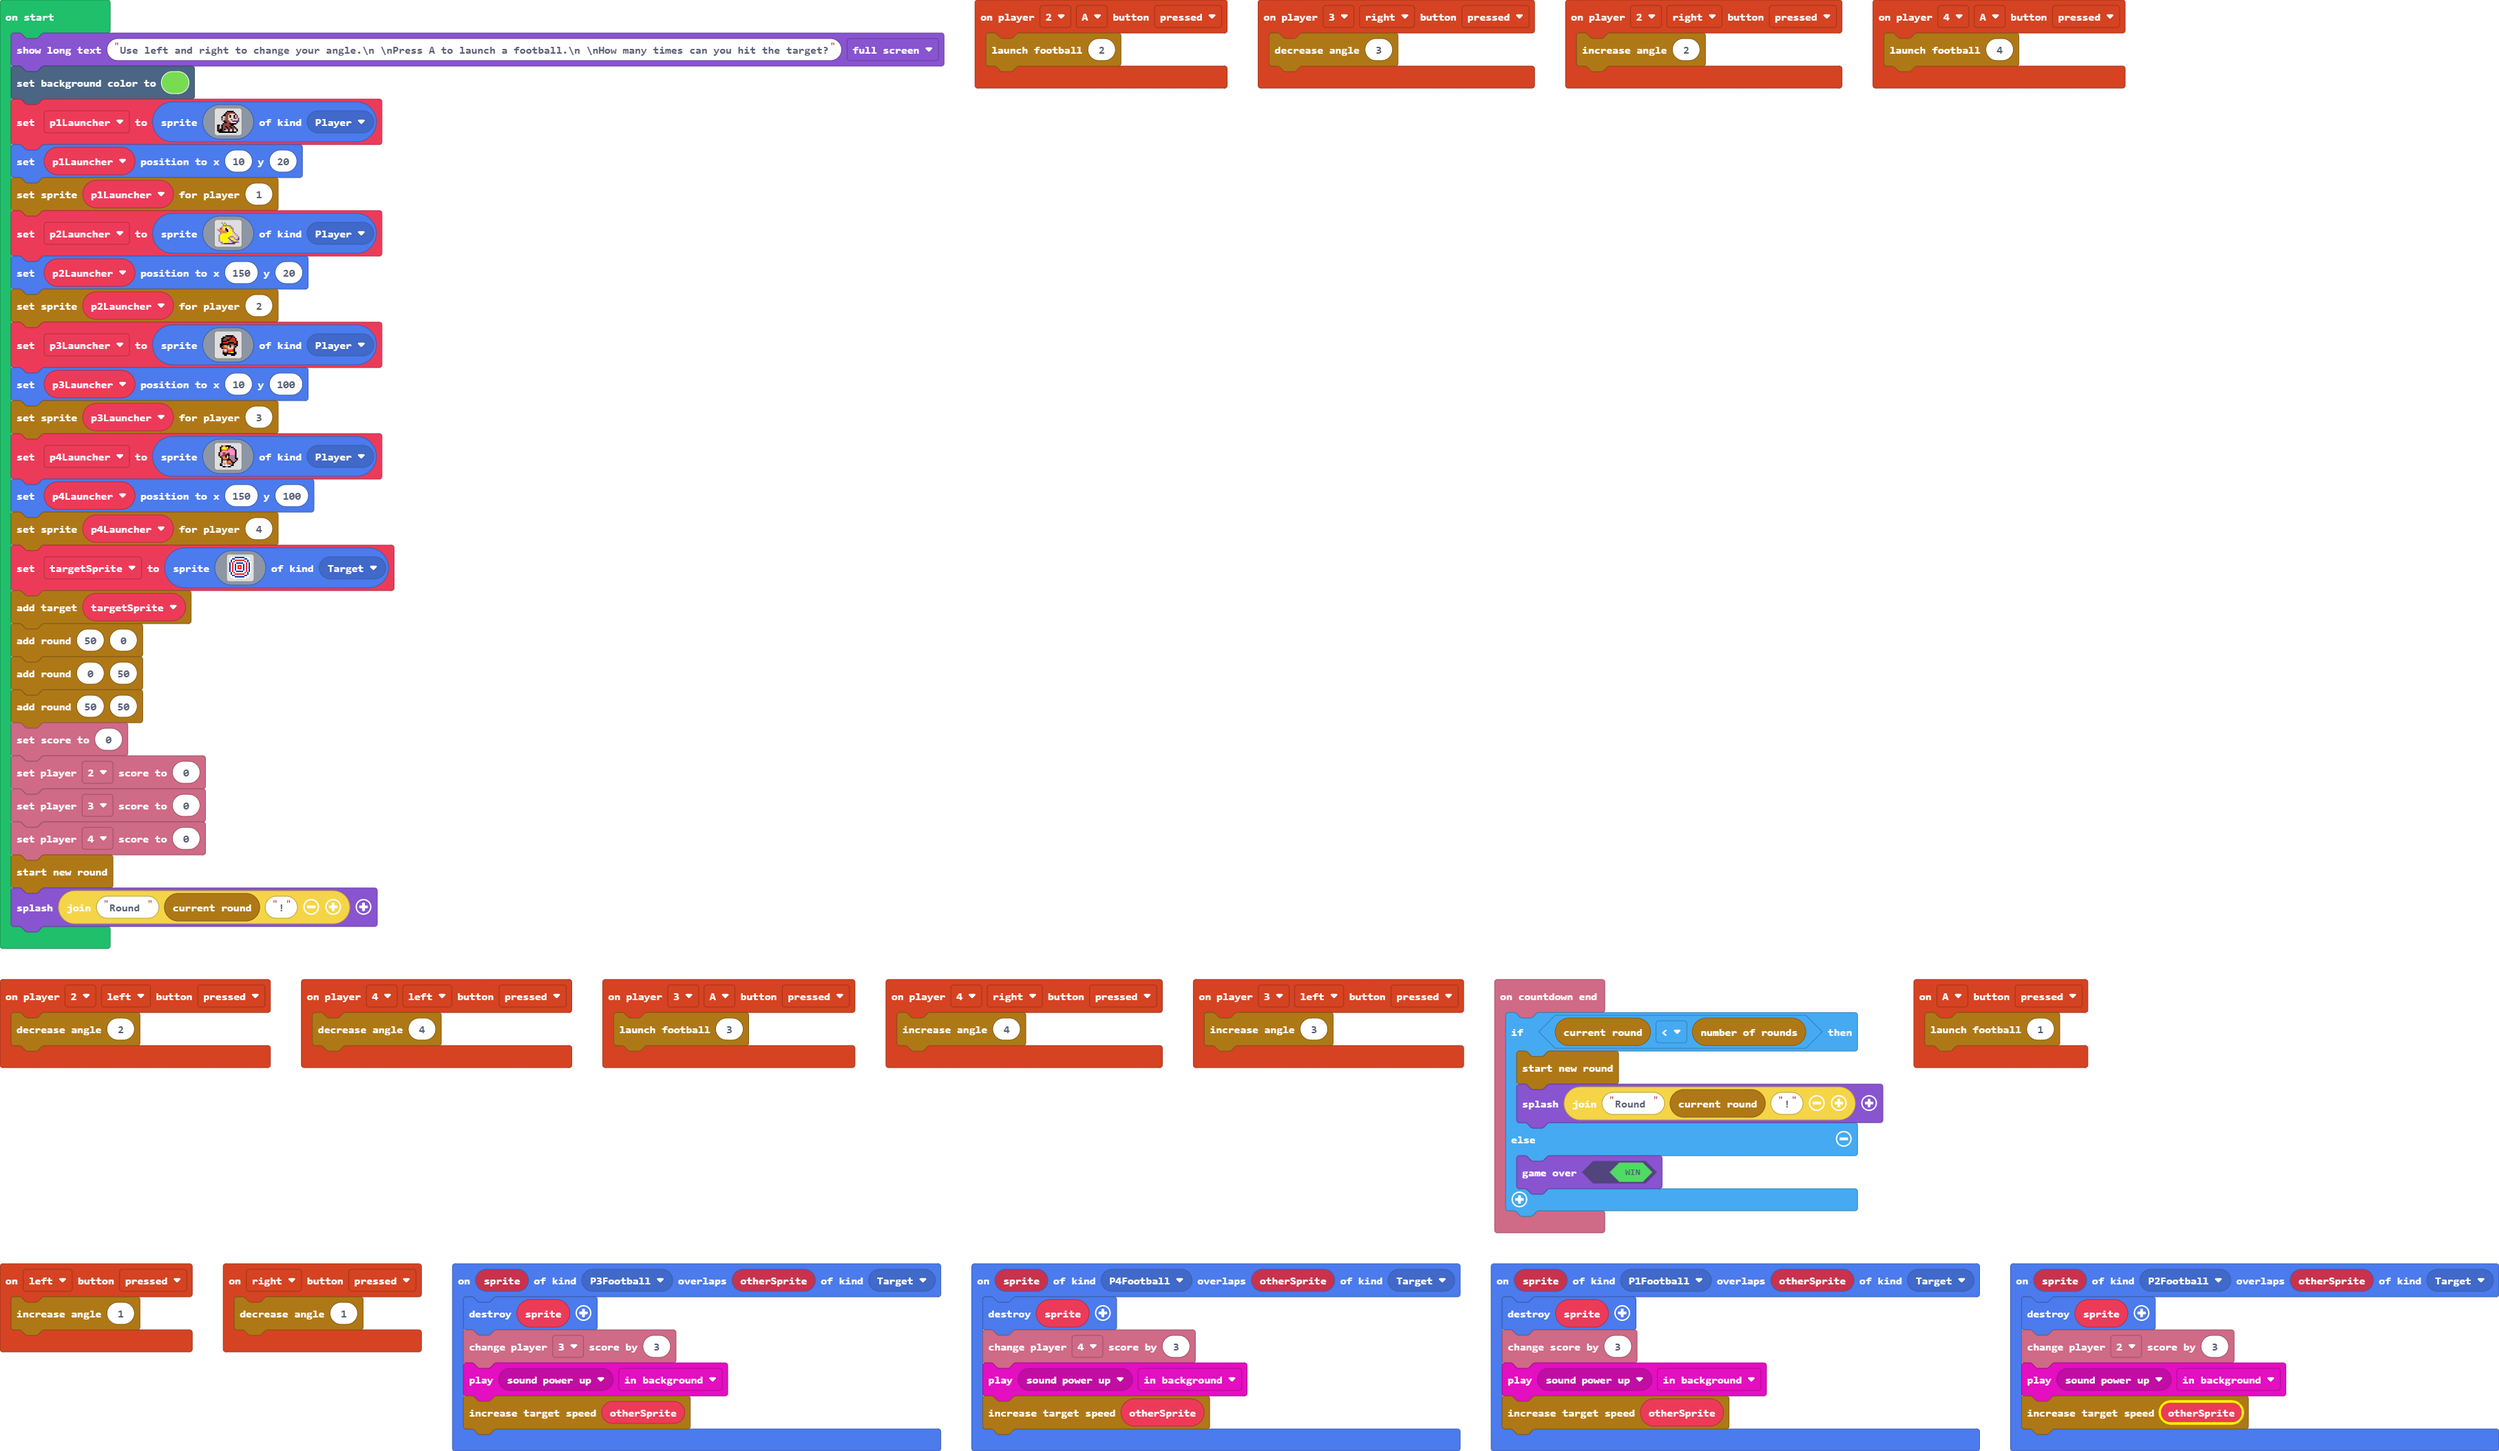
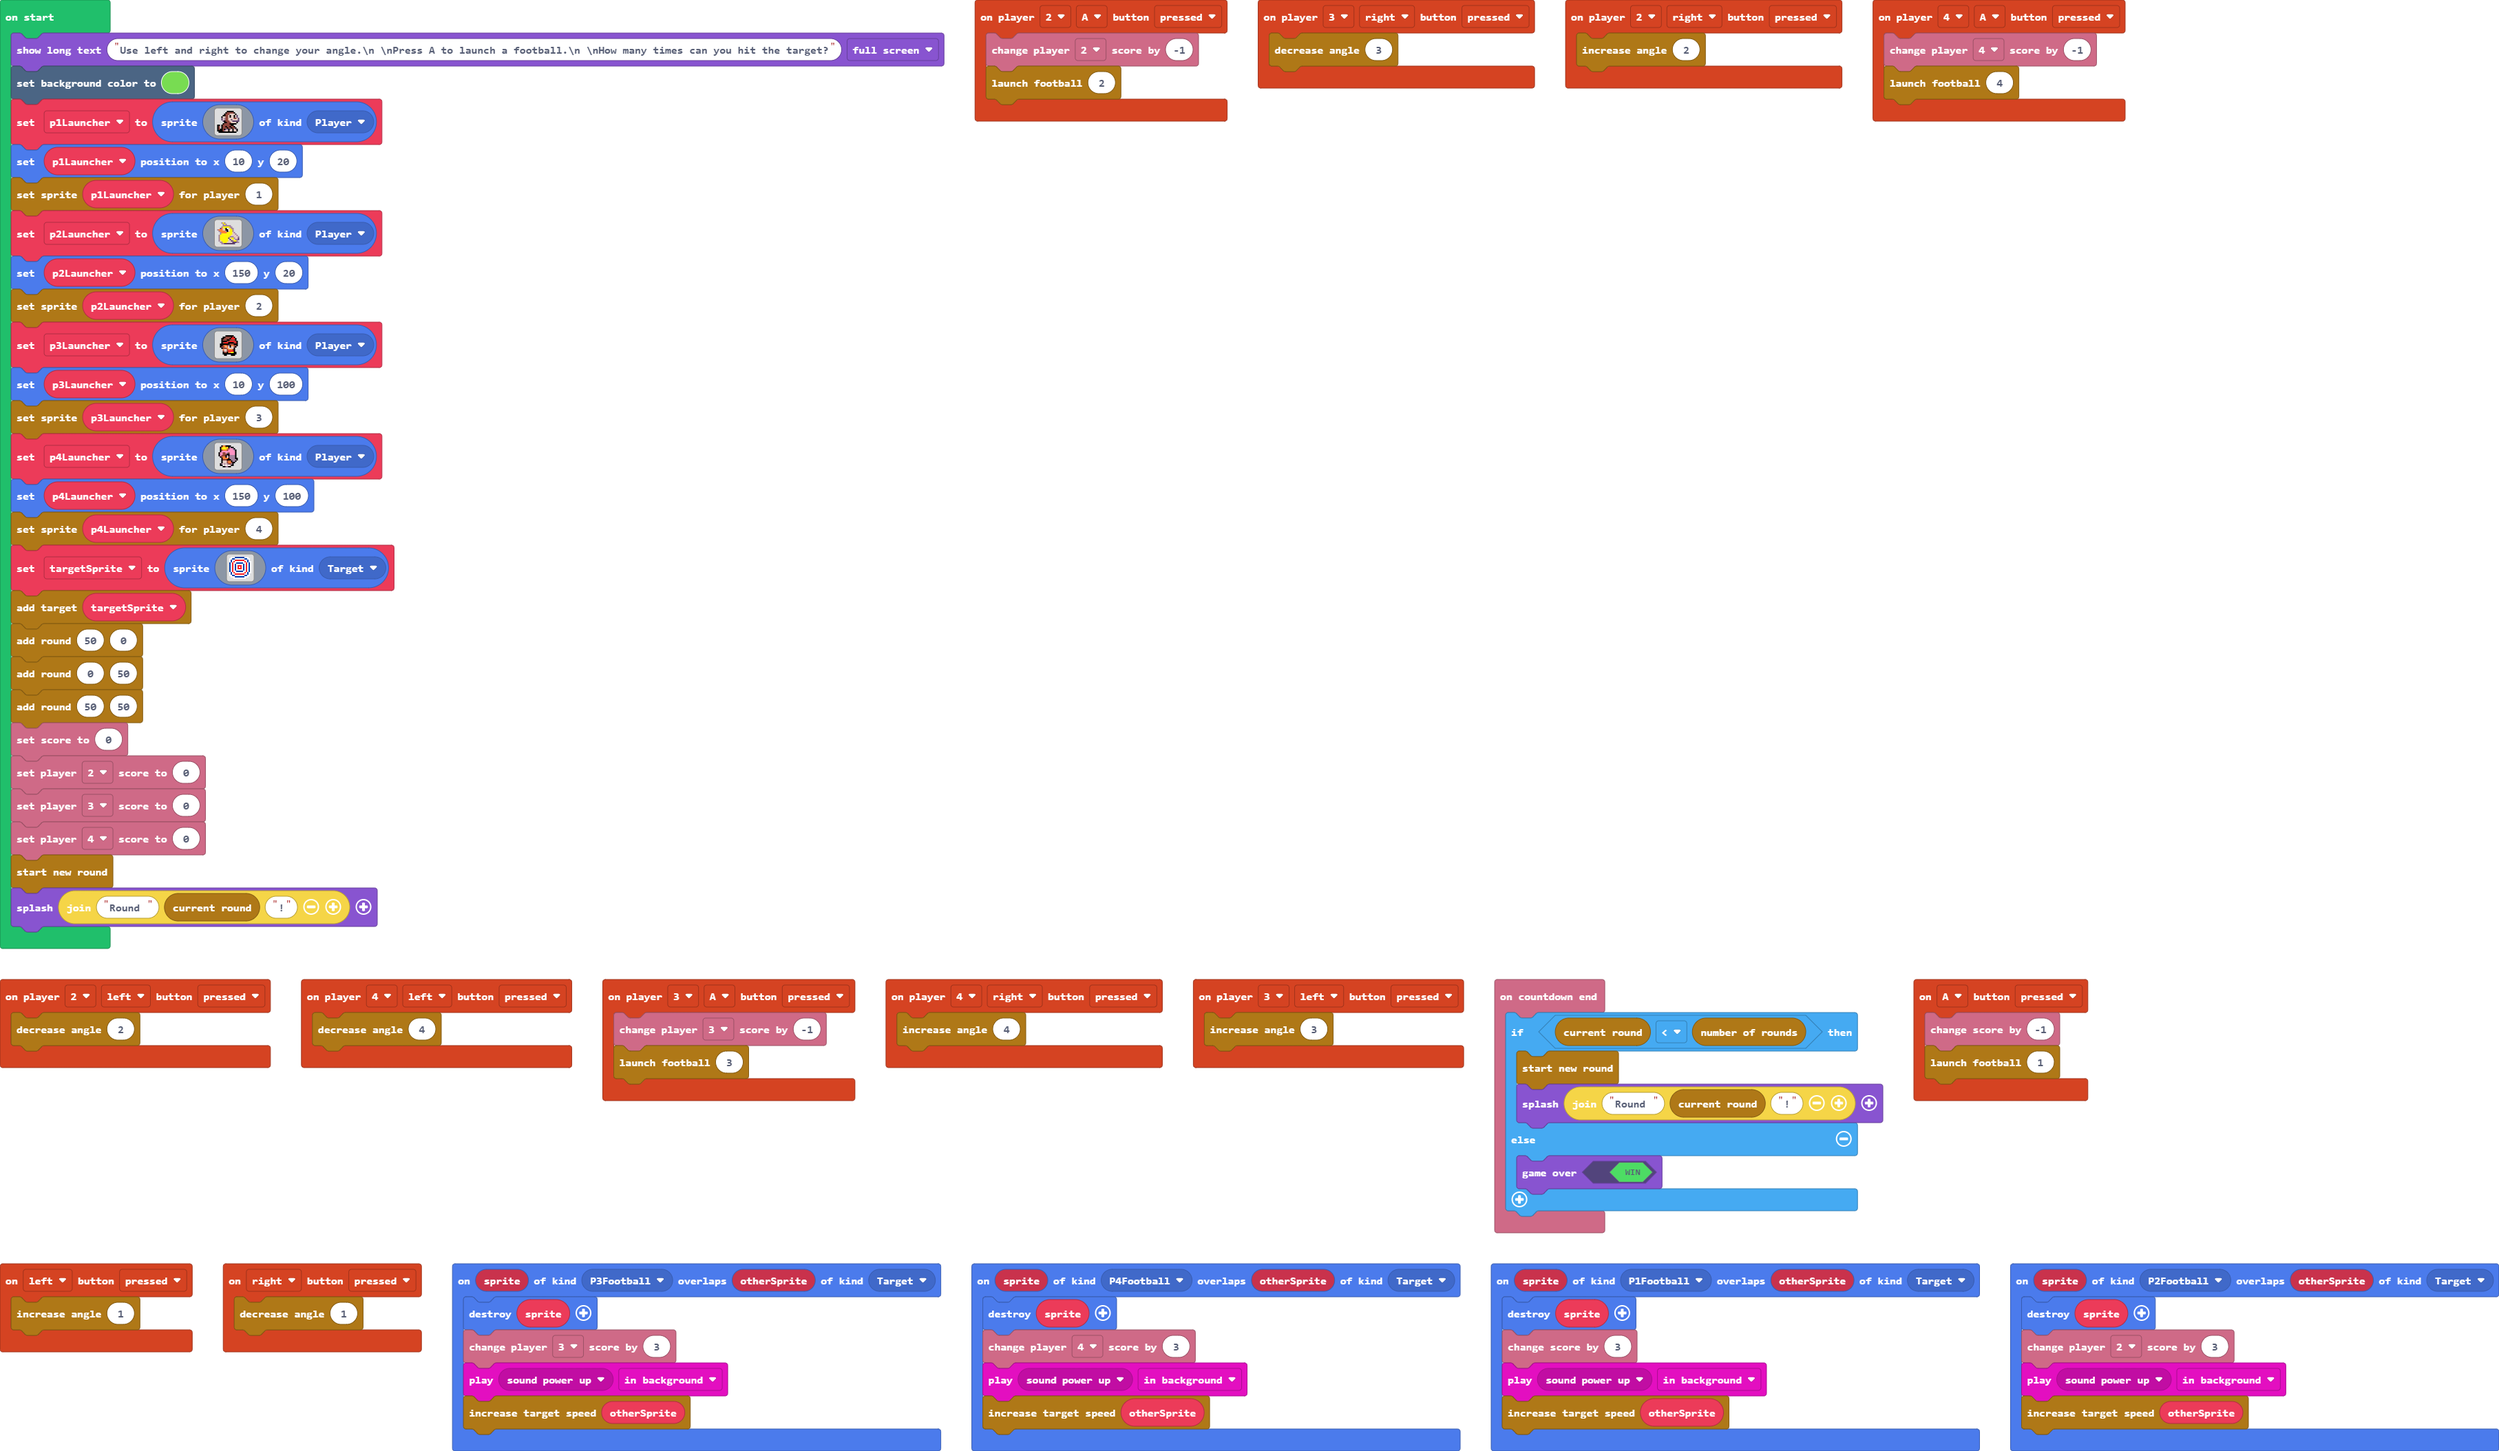
Deduct from score when launching football.

diff --git a/main.ts b/main.ts
@@ -5,9 +5,11 @@ namespace SpriteKind {
     export const FB4 = SpriteKind.create()
 }
 controller.A.onEvent(ControllerButtonEvent.Pressed, function () {
+    info.changeScoreBy(-1)
     launcher.launchFootball(1)
 })
 controller.player2.onButtonEvent(ControllerButton.A, ControllerButtonEvent.Pressed, function () {
+    info.player2.changeScoreBy(-1)
     launcher.launchFootball(2)
 })
 sprites.onOverlap(SpriteKind.P2Football, SpriteKind.Target, function (sprite, otherSprite) {
@@ -43,6 +45,7 @@ controller.player2.onButtonEvent(ControllerButton.Right, ControllerButtonEvent.P
     launcher.increaseAngle(2)
 })
 controller.player4.onButtonEvent(ControllerButton.A, ControllerButtonEvent.Pressed, function () {
+    info.player4.changeScoreBy(-1)
     launcher.launchFootball(4)
 })
 controller.player2.onButtonEvent(ControllerButton.Left, ControllerButtonEvent.Pressed, function () {
@@ -64,6 +67,7 @@ controller.player4.onButtonEvent(ControllerButton.Left, ControllerButtonEvent.Pr
     launcher.decreaseAngle(4)
 })
 controller.player3.onButtonEvent(ControllerButton.A, ControllerButtonEvent.Pressed, function () {
+    info.player3.changeScoreBy(-1)
     launcher.launchFootball(3)
 })
 controller.player4.onButtonEvent(ControllerButton.Right, ControllerButtonEvent.Pressed, function () {
